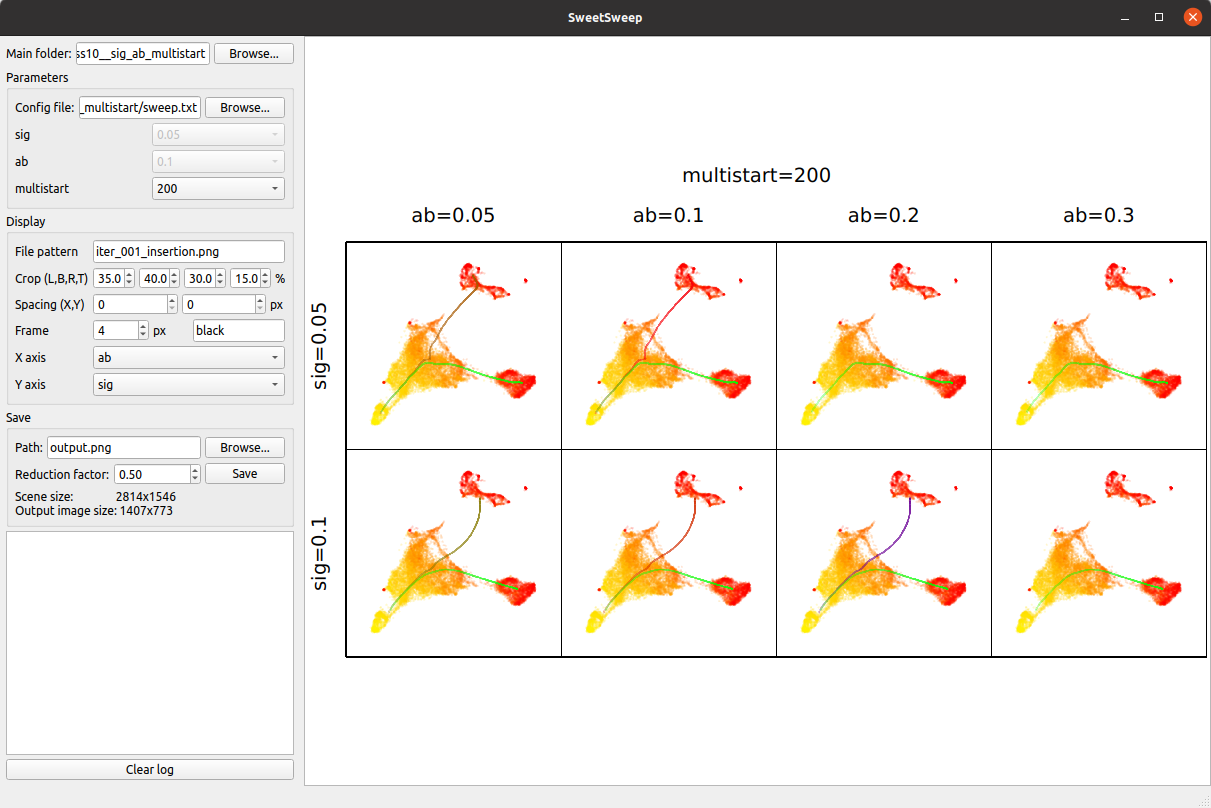
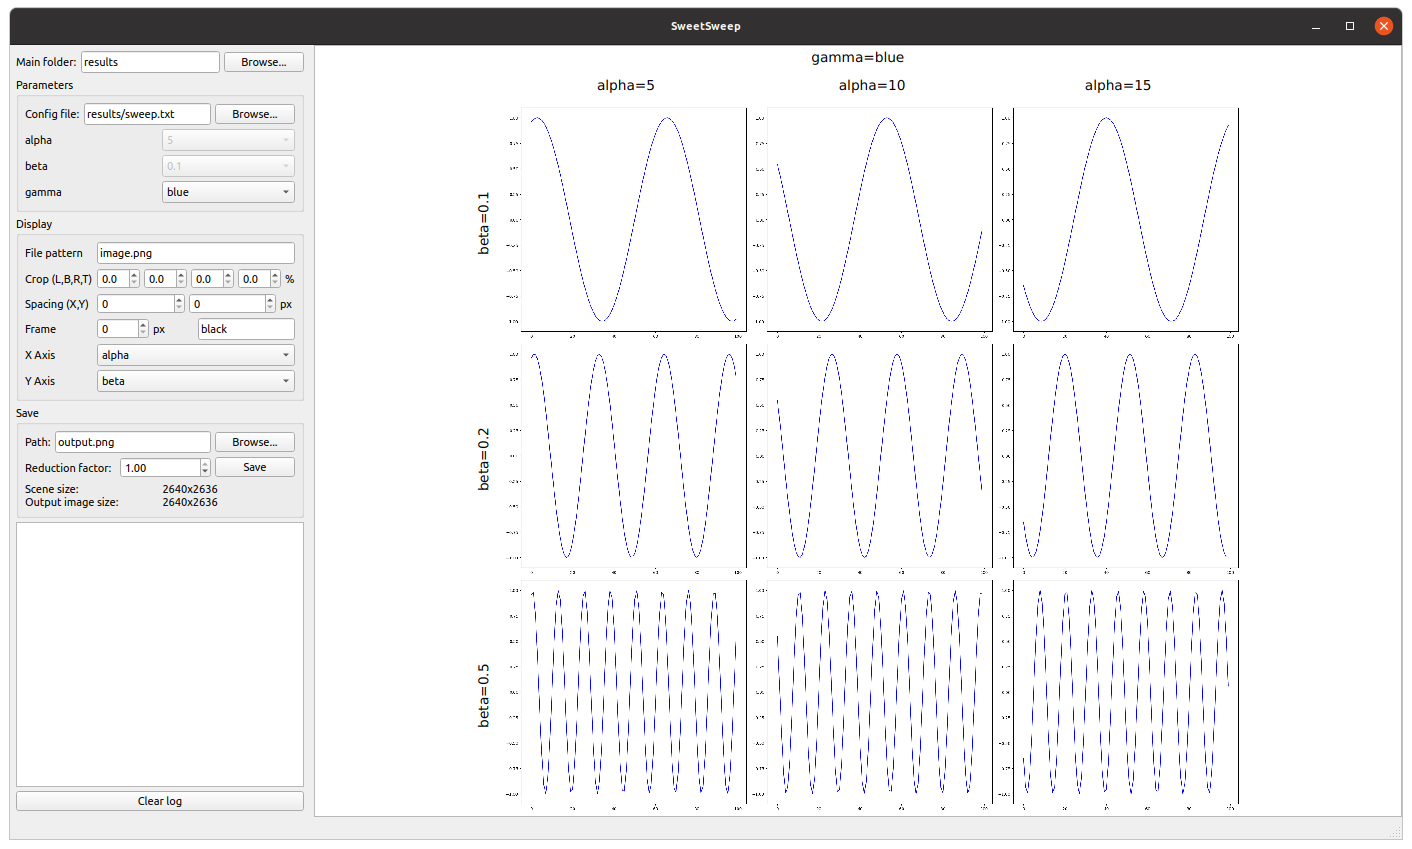
Add a script that does the sweep and creates all folder
Add an example for how to use it
Update the README and the screenshot

diff --git a/sweep.py b/sweep.py
@@ -1,0 +1,48 @@
+#!/usr/bin/env python3
+
+import os
+
+
+# This function performs a parameter sweep.
+# It calls `experiment_func` with all combinations of possible parameter values listed in `param_dict`.
+# - param_dict: `dict` where each (key,value) is respectively:
+#                   - the parameter name
+#                   - a `list` of all values (can be numbers, strings, booleans, etc.) to sweep for that parameter
+# - experiment_func: a functor that takes as argument :
+#                    - an experiment index (int)
+#                    - a dictionary with a single value for each parameter.
+#                    - if `sweep_dir` is not empty, a path to the experiment directory
+# - sweep_dir: the main directory in which to store all the experiment directories
+# - start_index: optional argument that sets the first experiment ID.
+def parameter_sweep(param_dict, experiment_func, sweep_dir, start_index=0):
+
+    # Fill the current_dict and count number of experiments
+    current_dict={}
+    num_exp = 1
+    for k in param_dict.keys():
+        current_dict[k] = param_dict[k][0]
+        num_exp *= len(param_dict[k])
+
+    def recursive_call(exp_id, current_dict, param_index):
+        current_key = list(param_dict.keys())[param_index]
+        for v in param_dict[current_key]:
+            current_dict[current_key] = v
+            if param_index != len(param_dict.keys())-1:
+                exp_id = recursive_call(exp_id, current_dict, param_index+1)
+            else:
+                if sweep_dir:
+                    # Create a folder for that experiment
+                    exp_dir = os.path.join(sweep_dir, ("exp_%0"+str(len(str(num_exp)))+"d_")%exp_id)
+                    for k, v in current_dict.items():
+                        exp_dir += "_" + k + str(v)
+                    os.makedirs(exp_dir, exist_ok=True)
+
+                    experiment_func(exp_id, current_dict, exp_dir)
+                else:
+                    experiment_func(exp_id, current_dict)
+
+                exp_id = exp_id + 1
+
+        return exp_id
+
+    recursive_call(start_index, current_dict, 0)

diff --git a/example.py b/example.py
@@ -1,0 +1,67 @@
+#!/usr/bin/env python3
+
+import os
+import math
+import json
+import matplotlib.pyplot as plt
+
+import sweep
+
+
+# Create the dictionary of values to sweep for each parameter
+# For example:
+param_sweep = {}
+param_sweep["alpha"] = [5, 10, 15]
+param_sweep["beta"] = [0.1, 0.2, 0.5]
+param_sweep["gamma"] = ["Red", "Blue"]
+
+# Main folder for the sweep
+my_sweep_dir = "./results"
+os.makedirs(my_sweep_dir, exist_ok=True)
+
+# Name of the result image
+result_filename = "image.png"
+
+
+# Save the param_sweep file
+params = param_sweep.copy()
+# Add parameters for the viewer if you need (see README.md)
+params["viewer_filePattern"] = result_filename
+# params["viewer_cropLBRT"] = [0, 0, 0, 0]
+json.dump(params, open(os.path.join(my_sweep_dir, "sweep.txt"), "w"))
+
+
+# Create the function for the experiment.
+# The sweep.parameter_sweep() will call it with the following arguments:
+# - exp_id: the experiment index (int)
+# - param_dict: a dictionary with a single value for each parameter
+# - exp_dir: the experiment directory, where you can save your results
+def my_experiment(exp_id, param_dict, exp_dir):
+
+    print("Experiment #%d:"%exp_id, param_dict)
+
+    # #######################
+    # Run your experiment here
+    #
+
+    # Access the parameters with:
+    # param_dict["alpha"]
+    # param_dict["beta"]
+    # ...
+
+    x = [math.sin(param_dict["beta"]*i-param_dict["alpha"]) for i in range(100)]
+
+    # ################
+    # Save the results
+    #
+
+    # Save the image you want to see in the viewer using `result_filename`
+    # For example:
+    plt.figure(figsize=(10, 10))
+    plt.plot(x, c=param_dict["gamma"])
+    plt.savefig(os.path.join(exp_dir, result_filename), bbox_inches="tight")
+    plt.close()
+
+
+# Run the sweep
+sweep.parameter_sweep(param_sweep, my_experiment, my_sweep_dir)

diff --git a/README.md b/README.md
@@ -1,41 +1,55 @@
 # SweetSweep
-Qt application to quickly visualize results from parameter sweeps
+Small application to quickly visualize results from parameter sweeps
 
 ![application screenshot](./screenshots/app.png)
 
-## Quick start
+### Dependencies
+
+For using the viewer, you will need those packages installed:
+```bash
+  pip install numpy PyQt5
+```
+For using the sweep example, you will need those:
+```bash
+  pip install matplotlib
+```
+
+
+### Quick start
 
 You can use this app if the output folders of your parameter sweep are
 named using their respective parameter values, like so:
 ```
 $ ls results/
-results_Example_reprog_sig0.05_ab0.05_multistart100/
-results_Example_reprog_sig0.05_ab0.05_multistart200/
-results_Example_reprog_sig0.05_ab0.1_multistart100/
-results_Example_reprog_sig0.05_ab0.1_multistart200/
-results_Example_reprog_sig0.05_ab0.2_multistart100/
-results_Example_reprog_sig0.05_ab0.2_multistart200/
-results_Example_reprog_sig0.05_ab0.3_multistart100/
-results_Example_reprog_sig0.05_ab0.3_multistart200/
-results_Example_reprog_sig0.1_ab0.05_multistart100/
-results_Example_reprog_sig0.1_ab0.05_multistart200/
-results_Example_reprog_sig0.1_ab0.1_multistart100/
-results_Example_reprog_sig0.1_ab0.1_multistart200/
-results_Example_reprog_sig0.1_ab0.2_multistart100/
-results_Example_reprog_sig0.1_ab0.2_multistart200/
-results_Example_reprog_sig0.1_ab0.3_multistart100/
-results_Example_reprog_sig0.1_ab0.3_multistart200/
+exp_00__alpha5_beta0.1_gammaRed/
+exp_01__alpha5_beta0.1_gammaBlue/
+exp_02__alpha5_beta0.2_gammaRed/
+exp_03__alpha5_beta0.2_gammaBlue/
+exp_04__alpha5_beta0.5_gammaRed/
+exp_05__alpha5_beta0.5_gammaBlue/
+exp_06__alpha10_beta0.1_gammaRed/
+exp_07__alpha10_beta0.1_gammaBlue/
+exp_08__alpha10_beta0.2_gammaRed/
+exp_09__alpha10_beta0.2_gammaBlue/
+exp_10__alpha10_beta0.5_gammaRed/
+exp_11__alpha10_beta0.5_gammaBlue/
+exp_12__alpha15_beta0.1_gammaRed/
+exp_13__alpha15_beta0.1_gammaBlue/
+exp_14__alpha15_beta0.2_gammaRed/
+exp_15__alpha15_beta0.2_gammaBlue/
+exp_16__alpha15_beta0.5_gammaRed/
+exp_17__alpha15_beta0.5_gammaBlue/
 sweep.txt
 ```
 
-You also need to specify a configuration file `sweep.txt` that describes each
-parameter and its values, as a json file:
+You just need to add to your folder a configuration file `sweep.txt`
+that describes each parameter and its values, in a JSON format:
 ```
 $ cat results/sweep.txt
 {
-"sig": [0.05,0.1],
-"ab": [0.05,0.1,0.2,0.3],
-"multistart": [100,200]
+"alpha": [5, 10, 15],
+"beta": [0.1, 0.2, 0.5],
+"gamma": ["Red", "Blue"]
 }
 ```
 Let's say that each directory contains a file `image.png`,
@@ -46,6 +60,18 @@ This app allows you to:
 parameter values
 - visualize grids of the results with varying parameters in the X and Y axis
 - save those visualizations to file
+
+
+### Sweep code and example
+
+There is also a helper function in `sweep.py` that does the parameter sweep for you
+and takes care of creating all the directories with the correct names, so that you
+can directly use the viewer once the sweep is done.
+There is an example on how to use it in `example.py`. To run it, simply do:
+```bash
+  python3 example.py          # Runs the example parameter sweep
+  python3 viewer.py results/  # Launch the viewer to visualize the results
+```
 
 
 ### Config file
@@ -76,8 +102,8 @@ parameter values
   (what `*` replaces) is drawn in the top left corner of each image. This is
   useful if you have an iterative algorithm, and you want to plot the result
   of the last iteration of each folder.
-- The app can access mounted folders, which is great to avoid copying to your
-  computer all result folders from the server on which you ran the sweep.
+- The app can access mounted folders, which is great if you ran the sweep on
+  a server, because you don't to copy all result folders to your computer.
   I only tried on Linux with a folder mounted with `sftp`, in which case the
   URL you need to provide is:
   `/run/user/$uid/gvfs/sftp:host=<host>,user=<user>/path/to/folder`.
